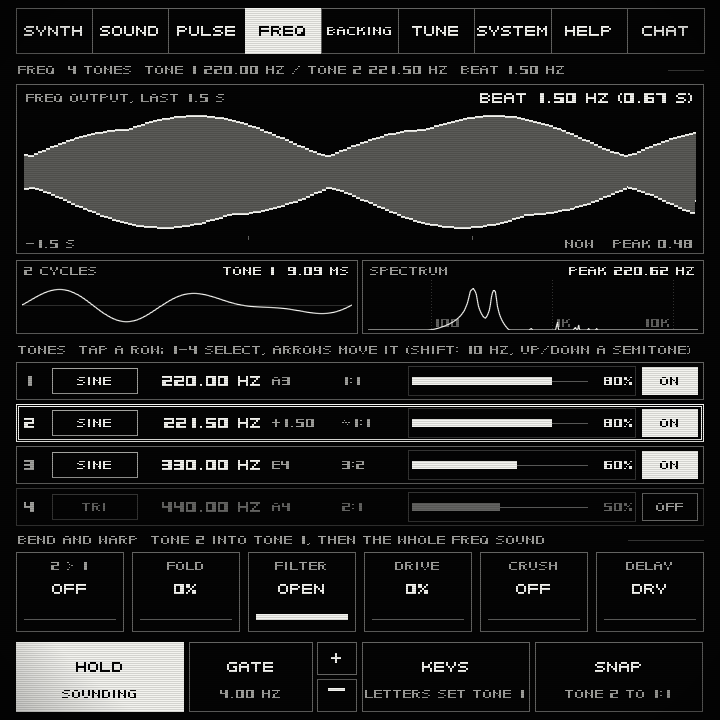
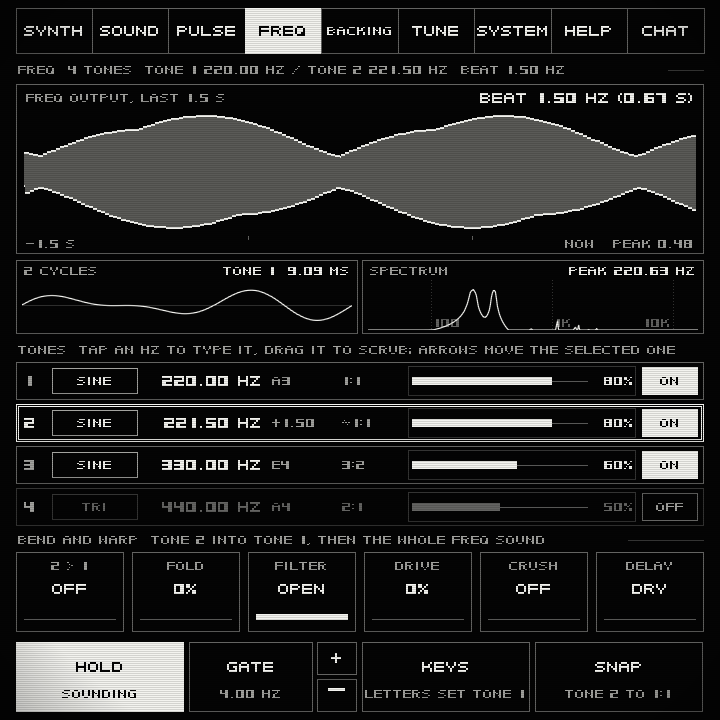
Explanations: a Warp concept card beside Sound, Pulse and Freq in the tour; Freq intro and tone card say how to type and scrub an Hz; README, STATUS, shots

diff --git a/app/tour/tourpages.cpp b/app/tour/tourpages.cpp
@@ -30,9 +30,9 @@ const char *tourPathAt(int i) { return kPath[qBound(0, i, kPathLen - 1)]; }
 // concepts worth reading beside each page (the READ ALSO chips of a page's intro card)
 QStringList tourReadAlso(const QString &page) {
     if (page == "synth") return {"concepts.strings", "concepts.slides", "concepts.scale-lock", "concepts.loop-pedal"};
-    if (page == "sound" || page == "sound-deep") return {"concepts.adsr", "concepts.undo-map", "concepts.sessions-favourites-state"};
-    if (page == "pulse") return {"concepts.pulse-kinds", "concepts.latch-sync", "concepts.loop-pedal"};
-    if (page == "freq") return {"concepts.beating", "concepts.latch-sync", "concepts.scale-lock"};
+    if (page == "sound" || page == "sound-deep") return {"concepts.adsr", "concepts.warp", "concepts.undo-map", "concepts.sessions-favourites-state"};
+    if (page == "pulse") return {"concepts.pulse-kinds", "concepts.warp", "concepts.latch-sync", "concepts.loop-pedal"};
+    if (page == "freq") return {"concepts.beating", "concepts.warp", "concepts.latch-sync", "concepts.scale-lock"};
     if (page == "backing") return {"concepts.backing-modes", "concepts.scale-lock", "concepts.tempo"};
     if (page == "tune") return {"concepts.scale-lock", "concepts.tempo", "concepts.slides"};
     if (page == "system" || page == "key-test") return {"concepts.q20-layers", "concepts.panic", "concepts.sessions-favourites-state"};

diff --git a/docs/STATUS.md b/docs/STATUS.md
@@ -1,5 +1,7 @@
 # Status — what works, what is unproven, what is missing
 
+Version 0.14.0, Freq by hand, 2026-11-15. On the Freq page a tap on a tone's Hz types it (digits and a point, `Backspace` fixes without panicking, `Enter` sets it, held to 20 Hz - 18 kHz, `Esc` leaves it) and a drag across the Hz scrubs it (40 px a semitone); a tap on Fold, Filter, Drive, Crush or Delay sets it to 0 (Filter: open), a drag still sets it. A new **Warp** concept card, read beside the Sound, Pulse and Freq tour pages. Self-tested by synthetic keys and touches only; **not tried on the device**. Tests: 519 engine, 401 app checks (the one failure, "audio backend opened", is the silent test backend).
+
 Version 0.14.0 with Warp, 2026-11-15. Bend, warp and distort, on two more pages. **Sound page:** a **Warp** button beside All parameters swaps the eight quick sliders for the Warp view: an IN > OUT picture (a ramp from -1 to 1 run through the voice's own warp code) and six sliders, DRIVE (the existing parameter, unchanged), FOLD, CRUSH (off, then 12 down to 2 bits), DOWNSAMPLE (off, then 1/2 down to 1/32 of the rate), RING MOD (a sine at 1.41 times the note, blended) and BEND IN (each note starts up to 24 semitones off and lands in 70 ms). They are five new sound parameters, after LEVEL (`fold`, `crush`, `downsample`, `ring`, `bendin`), acting per voice after the filter and DRIVE and before the envelope; saved by name with sounds, slots, favourites and sessions; the same view is page 5 of All parameters. New sound leaves them at 0 and Mutate leaves them as they are. **Pulse page:** the fourth soft key is now **Warp**, swapping the selected pad's Tone, Length, Rate and Level for DRIVE, FOLD, CRUSH and BEND (a pitch sweep across the hit; on metal and clap it moves the noise band); TYPE moved to the pad's name in the line above the big picture. Four new PulsePad fields, saved in state and sessions and accepted by the `pulse` socket command; they run inside the shared generator, so the pictures are still the sound. The drive / fold and bits / held-rate stages of `core/fx/warp.*` are now shared per-sample pieces; the Freq page uses them unchanged. **Nobody has heard any of it on the device**: every claim below about Warp is measured offline (rendered audio, synthetic touches), including the CPU cost. Files from before Warp load with all of it off, and with it off every factory and extra sound and every pulse pad renders bit-identical to the build before Warp (checksums taken from that build). Benchmark on this Raspberry Pi: 28 voices of the heavy test patch, 5.2 % of one core; with every warp stage on in every voice, 8.5 to 8.7 % (about 0.12 % of a core per warped voice); all eight pulse pads latched at 40 Hz, 2.4 % without warp and 3.6 % with full warp. Tests: 519 engine, 396 app checks (the one failure, "audio backend opened", is the silent test backend).
 
 Version 0.14.0 with the Freq page, 2026-11-15. A ninth tab, **Freq**, after Pulse: up to four steady tones at exact frequencies (sine, triangle, band-limited square and saw, noise band-passed at the tone's Hz), each with a level and ON / off; the beat between the two lowest tones within 20 Hz in the section line and over a 1.5 s envelope of the Freq sound; two cycles of tone 1 and a spectrum (the Synth scope's FFT, now shared in `app/pages/synth/spectrum.*`), all three drawn only from a tap of the Freq tones' own output; the nearest note or the Hz offset from tone 1, and the ratio to tone 1; **2 > 1** (tone 2 bends tone 1 by FM or RING, one cell: tap for the mode, drag for the amount), Fold, Filter, Drive, Crush and a Delay send; Hold, Gate (with Sync it snaps to the tempo), Keys (the letters set tone 1 to scale notes, the others keep their offset or ratio) and Snap (to the nearest simple ratio, or for tone 1 the nearest note). The drive / fold / crush / low-pass stage is its own unit, `core/fx/warp.*`, ready for the Synth and Pulse. The tones are in the state file and sessions; Hold and Gate are not, so nothing starts by itself; files without Freq load with the default tones. There is no `freq` control-socket command yet: Rook can open the page and highlight its controls, not set the tones. **Nobody has heard the Freq page on the device yet, and no physical key was pressed on it**: every claim about it below is measured offline (rendered audio, synthetic keys and touches). Tests: 480 engine, 371 app checks (the one failure, "audio backend opened", is the silent test backend).
@@ -37,7 +39,7 @@ application with real key and touch events while the real audio thread runs (396
 | Warp (engine) | Measured on rendered output with the pure sine patch (146.8 Hz): FOLD at 100 % puts 58 % of the energy in harmonics 2 to 9 (dry: 0.01 %); CRUSH leaves at most 2^bits + 1 levels (2 bits: 5 levels; 7 bits: 117 of 129) and two bits give odd harmonics over 50 times the dry sine's; DOWNSAMPLE at its top changes the output once every 32 samples and puts images around 1.5 kHz; RING MOD at 100 % puts half the energy each at 0.41 and 2.41 times the note and leaves under 0.1 % at the note; BEND IN +12 and -12 average above 1.4 and below 0.72 times the note over the first 30 ms, and from 150 ms measure 0.000 % off the note (the test allows 0.5 %); nine notes of a saw with resonance 0.95, level 4 and every warp at the top stay inside full scale, and the voice's warp of a full-scale ramp stays inside +-1. Pulse: BEND +12 / -12 on a tom is 1.24 / 0.80 times the unbent pitch at 125 ms and 1.76 / 0.57 at 325 ms (expected within 2 %); a clap's band moves up under +24; all eight kinds at full warp change and stay under 1.0; CRUSH at the top leaves 5 levels; FOLD doubles a sub thump's brightness; with warp on, what the bank plays is still the picture's sound, sample for sample, for all eight pads. With all of it off, fifteen sounds and eight pads are bit-identical to the build before Warp |
 | Warp (app) | By touch: WARP shows the IN > OUT picture and six sliders in place of the quick ones; the sliders set FOLD, CRUSH, DOWNSAMPLE, RING MOD, BEND IN and DRIVE; the Warp view redraws in about 3 ms; Store puts the warp in a slot, New sound starts with it off, Undo brings it back, Save favourite writes it and it reads back; a sound file without it loads with it off; All parameters page 5 is the Warp view; WARP from All parameters and back; leaving the page drops the view. Pulse: WARP swaps the four sliders, touching them warps the pad, the page redraws in about 3 ms, tapping the pad's name gives the next kind and keeps the warp, the warp is in the state file and reads back exactly, a pad from before Warp loads with it off; the `pulse` socket command takes and refuses warp values and `state` shows them; the tour has a fifth All-parameters picture (the Warp view) and a second Pulse picture (WARP on) |
 | Freq tones (engine) | Measured on rendered output: 220 and 221.5 Hz sines beat at 1.5 Hz (envelope crossings, within 2 %) and the page's sum says 1.50; sine, triangle, square and saw at 55, 220, 1000 and 3520 Hz play within 0.5 % (zero crossings); noise has over six times the energy at its Hz as at three times it; a jump from 220 to 440 Hz with a level change reaches 440 Hz inside 100 ms with no sample step larger than 1.3 times a steady 220 Hz sine's; Hold fades in and out (silent inside 50 ms); a 40 Hz gate's largest step is under 0.12; Gate alone at 8 Hz opens 16 times in 2 s; with Sync, 3 Hz at 120 bpm becomes eighth notes, 8 openings in 2 s, opening on the eighth-note line; FM puts sidebands at 800 and 1200 Hz around a 1 kHz tone with a 200 Hz tone 2, and RING moves the energy to the sum and difference; 40 random settings with all four tones at full level and Drive and Fold at 100 % (any wave, crush, filter, 2 > 1 mode, gate) never pass the bank's 0.9 ceiling, and the warp stage alone keeps a full-scale square inside +-1; Drive brightens, Filter darkens a saw, Crush at full leaves under 40 levels. In the instrument: the Freq tap holds the tones' output (beat 1.5 Hz); panic silences them and drops Hold; the tap reads silence after; the Delay send leaves echoes; Keys plays only while a key is held, at the key's note; Snap and the ratio names; a session keeps every setting with nothing sounding. Cost at its busiest (four tones, noise, FM, every warp stage, gate): about 1 % of one core in the benchmark |
-| Freq page (app) | The Freq tab after Pulse; Hold by touch and its sound in the tap; a tapped off row is selected and switched on; Wave steps; the level bar sets where it is touched; ON / off; 2 > 1 goes OFF, FM, RING, OFF; Filter's middle is about 850 Hz; `Right` +0.5 Hz, `Shift`+`Left` -10 Hz, `Up` a semitone, `4` selects tone 4; Snap 331 to 330 Hz over 220; with Keys off a letter plays the synth, with Keys on `A` sets tone 1 to the middle string's first note and the synth stays silent, and letting go stops it; `Backspace` lets Hold go; Gate and its `+`; `Enter` stays the loop pedal; four tones sounding redraw in about 5 ms; the state file holds the tones (and not Hold); a session keeps them exactly, and one without Freq loads the defaults |
+| Freq page (app) | The Freq tab after Pulse; Hold by touch and its sound in the tap; a tapped off row is selected and switched on; Wave steps; the level bar sets where it is touched; ON / off; 2 > 1 goes OFF, FM, RING, OFF; Filter's middle is about 850 Hz; `Right` +0.5 Hz, `Shift`+`Left` -10 Hz, `Up` a semitone, `4` selects tone 4; Snap 331 to 330 Hz over 220; a tap on an Hz then 4 3 3 Backspace 2 . 5 Enter sets 432.5 Hz (Hold stays on), Esc leaves it, a 40 px drag scrubs a semitone; a tap on Filter opens it and on Drive sets 0; with Keys off a letter plays the synth, with Keys on `A` sets tone 1 to the middle string's first note and the synth stays silent, and letting go stops it; `Backspace` lets Hold go; Gate and its `+`; `Enter` stays the loop pedal; four tones sounding redraw in about 5 ms; the state file holds the tones (and not Hold); a session keeps them exactly, and one without Freq loads the defaults |
 | Guided help (app) | `zones` lists every named zone of all eight pages with a rectangle and a label, and the list equals what is drawn; listing another page leaves the player where they are; every row of all three Help sections is a named zone (16/16/13). `highlight`: an alias (`octave`) and a prefix (`chord*`) expand; unknown names are reported while known ones highlight; a bright rule is drawn around the zone (pixel measured); the caption stays on screen and clear of the highlighted zones; it ends after its time, on `unhighlight`, and when the page changes (and does not return); `page` + highlight switch and highlight in one step; 6,800 hostile requests (wrong types, 40 names, a 500-character name, a label with control characters, out-of-range ms) are answered, none crashed. Dock: `Ctrl`+`Y` opens it with the keyboard without leaving the page; letters type and play no string; `Enter` sends with the next `seq` and wakes a waiting `chat_wait`; the message carries `page`, `focus` and `via` through `chat_poll` and `chat_wait`; `Esc` gives the keys back (a key plays again) and keeps the dock, `Esc` again closes it, then Esc is the old Esc; `Ctrl`+`Y` toggles focus; touch on the input, Send, Hide and Full; `Ctrl`+`Shift`+`Y` and the Chat page unchanged. The dock and the caption were tried over every zone shorter than 330 px of every page (more than 150) and never overlapped it: it shortens, then moves to the top; the ticker moves to the top for the same reason, and a touch on it opens the dock. The topic tag is set by a highlight, kept by a message within 5 s, and cleared by a later one or a page change. Help: Ask Rook and a tapped row open the dock with a starting question; the question goes out with the row as `focus`; all rows stay visible above the dock |
 | Control socket and chat | The socket starts, is `0600`, replaces a stale file from a crashed run and refuses to take over a live one; two clients at once; replies carry the request id. A note over the socket has the right pitch (measured with the scope on the output: string 0 degree 0 = 110 Hz, a degree on the middle string follows the scale, MIDI 81 = 880 Hz); it lets go by itself after its duration; the player's own keys slide it; panic empties every voice; a slide moves the pitch. 94 requests cover every command with a good and a refused argument (note, notes, chord, slide, release, panic, set_param, get_params, sound, save_favourite, scale, tempo, octave, bend, sustain, loop, backing, pulse, page, session, screenshot, the chat commands); state shows what they did; the screenshot is a 720x720 PNG. Chat: chat_say shows on the page, in the ticker on another page, as an unread count and in `state`; letters typed with synthetic key events fill the input line and play no string, Backspace edits, Enter (or the Send button) sends; a pending chat_wait is answered the moment the message is sent (15 ms measured) while other clients are served, and times out with an empty list; chat_poll returns both directions; `Ctrl`+`Y` goes to Chat and back, `Esc` leaves; the history is in the state file and only the last 200 are kept. Hostile input: garbage, a JSON array, a 40,000-digit number, a 2 MiB line, deeply nested JSON, several requests in one write, a client that disconnects mid-line, and 8,954 requests with one wrongly typed or out-of-range argument for every command: all answered, none crashed, no events dropped, output inside full scale. The socket file is removed on stop |
 | Drawing and saving | With three notes sounding, every page redraws well inside a 40 ms frame (slowest in the test: Synth, about 12 to 14 ms) |
@@ -50,7 +52,7 @@ application with real key and touch events while the real audio thread runs (396
 
 Implemented but with **no automated test**: the scroll marker and finger-drag scrolling of the Chat history, typing characters other than letters and digits (the test sends keys without text), the ticker's two-line wrap on long messages (drawn on two pictures only), `--no-control`, the real default socket path in `$XDG_RUNTIME_DIR`, loops following a tempo change, bends and XY moves inside loops,
 voice stealing at the 28-voice limit (benchmarked for speed, not checked for clicks), releasing all notes
-when the window loses focus, the scope's frequency readout, trigger and auto-ranging (checked by eye on rendered pictures only), the Glitch colour streaks (seen on one rendered picture only), Glitch moves replayed from inside a loop, the pulse pads lighting up when they sound, the look of the pictures and the strip (rendered pictures only), Left on the Pulse page, latched pads while a loop records (by design only taps are recorded), old `keymap.json` files picking up the new key bindings (names of removed actions are skipped), the on-screen sound editor's individual controls. On the Freq page: dragging the 2 > 1 cell for its amount (taps are tested, drags are not), the Fold, Drive, Crush and Delay cells by touch (the engine side of each is tested), `-` beside Gate, `Shift` with a letter in Keys mode, Gate while a key is held in Keys mode, the look of the three views (rendered pictures only), and whether any of it sounds good or clicks on the real speaker.
+when the window loses focus, the scope's frequency readout, trigger and auto-ranging (checked by eye on rendered pictures only), the Glitch colour streaks (seen on one rendered picture only), Glitch moves replayed from inside a loop, the pulse pads lighting up when they sound, the look of the pictures and the strip (rendered pictures only), Left on the Pulse page, latched pads while a loop records (by design only taps are recorded), old `keymap.json` files picking up the new key bindings (names of removed actions are skipped), the on-screen sound editor's individual controls. On the Freq page: dragging the 2 > 1 cell for its amount (taps are tested, drags are not), dragging the Fold, Drive, Crush and Delay cells (the engine side of each is tested, and taps to 0 on Filter and Drive), `-` beside Gate, `Shift` with a letter in Keys mode, Gate while a key is held in Keys mode, the look of the three views (rendered pictures only), and whether any of it sounds good or clicks on the real speaker.
 
 ## Measured on this device
 

diff --git a/README.md b/README.md
@@ -72,7 +72,7 @@ The full how-to is [docs/GUIDE.md](docs/GUIDE.md). A short version is built in: 
   each with Tone, Length, Rate and Level, and a warp (drive, fold, crush, bend). Each pad shows a picture of its real sound (drawn by its own
   generator); a strip shows every hit of the last four seconds. Latch keeps a pad going, Sync snaps
   rates to the tempo, and pad taps are recorded by the loop pedal.
-- **Freq**: up to four steady tones at exact frequencies (sine, triangle, square, saw or band-passed noise), with the beat between close tones shown and drawn from the real output, tone 2 bending tone 1 (FM or ring), fold / filter / drive / crush / delay, Hold, Gate (tempo-synced with Sync), the letter keys setting tone 1, and Snap to simple ratios. See [GUIDE chapter 18](docs/GUIDE.md#18-freq).
+- **Freq**: up to four steady tones at exact frequencies, each typed in (tap its Hz) or scrubbed by dragging (sine, triangle, square, saw or band-passed noise), with the beat between close tones shown and drawn from the real output, tone 2 bending tone 1 (FM or ring), fold / filter / drive / crush / delay, Hold, Gate (tempo-synced with Sync), the letter keys setting tone 1, and Snap to simple ratios. See [GUIDE chapter 18](docs/GUIDE.md#18-freq).
 - **Tour**: an interactive picture of every page; tap any control to read what it does, how to use it by touch and keys, and how to find it again, with an **Ask Rook** button on every card. `Ctrl`+`O` or Help -> Tour; offered once on first run. See [GUIDE chapter 17](docs/GUIDE.md#17-the-tour).
 - **Copilot**: a Chat tab and a local control socket let an AI agent play and edit the app live while you talk to it
   (`Ctrl`+`Y` opens a chat dock on whatever page you are on, so you can ask about the control Rook is pointing at without leaving it). Local Unix socket only, off with `--no-control`. See [docs/CONTROL.md](docs/CONTROL.md).
